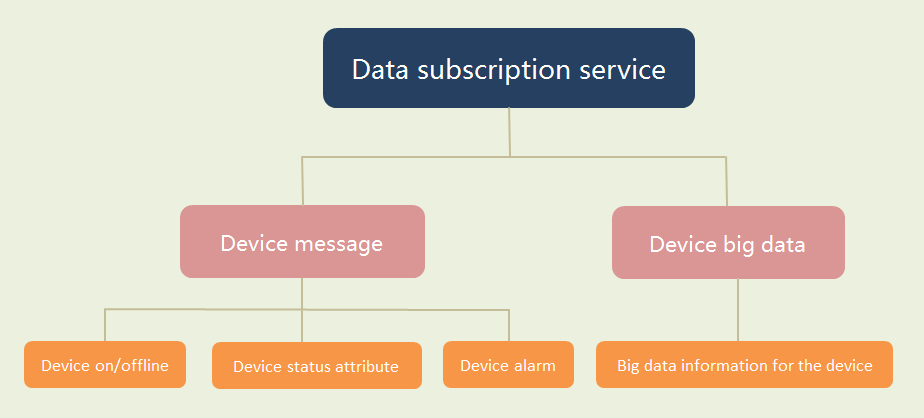
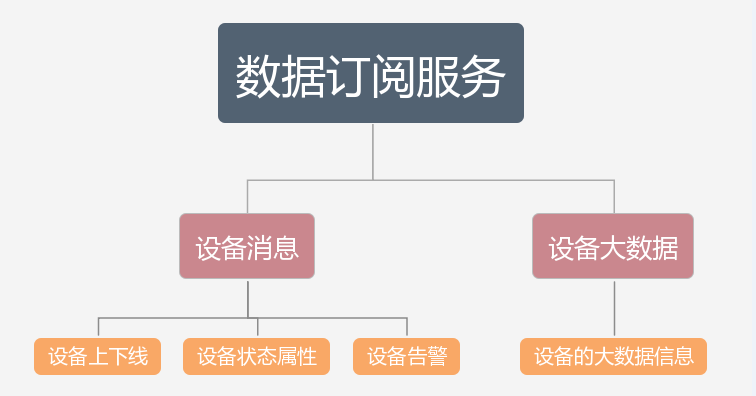
更新
更新

diff --git a/en-zh/DataSubscription.md b/en-zh/DataSubscription.md
@@ -1,38 +1,28 @@
 
->  **current version**：[UWS DataSubscription V1.0.0](en-us/ChangeLog/DataSubscription)  
- **Update time**：{docsify-updated} 
+>  **当前版本**：[UWS 数据订阅 V1.0.0](en-zh/ChangeLog/DataSubscription)  
+ **更新时间**：{docsify-updated}  
 
-### Introduction
->  The Data Subscription Service feature is designed to help developers or applications quickly access real-time incremental data, including device information data, user data, and other custom data that developers subscribe to based on actual needs.  
+## 简介
+>  数据订阅服务功能旨在帮助开发者或应用快速获取实时的增量数据，包括设备信息数据、用户数据以及其他开发者根据实际需求订阅的自定义数据。
 
-The real-time data uploaded by the smart connected device will enter the IOT platform. When the developer or the application needs to refer to the device data for related analysis or operation, the developer can connect to the real-time data reported by the U+IOT platform device through the data subscription.
+智能互联设备上传的实时数据会进入IOT平台，当开发者或应用需要参考设备数据进行相关分析或操作时，开发者可以通过数据订阅连接到U+IOT平台设备上报的实时数据。
 
-![Data subscription image][dataSubscription_type]
+![数据订阅图片][dataSubscription_type]
 
-The third party can subscribe to the Haier device message function through the data push service, and realize the interworking between the Haier device data and the third-party platform. Device messages include the device's online and offline lines, device status attributes, device alarms, and device big data information. Pushing is currently supported based on the typeid of the device.Device data subscriptions include device infrastructure configuration information and real-time information about the device's operational status.  
-1、	Basic device information, including device version, binding information, and model number.
-2、	Operating status, including faults, wifi information, heartbeat, offline reasons, etc.
-
-
-### Application scenarios
-
-Applicable to third-party platforms to obtain device data (up and down lines, device status attributes, device alarms, and device big data information) on the Haier platform to implement certain business logic.  
-
-For third-party partners who use or sell Haier platform equipment, the service supports the Haier U+ cloud platform to push the device's online and offline, attributes, alarms, and big data information functions to third-party partners. Realize the data push function of Haier cloud platform to serve third-party platforms.  
+第三方可以通过数据推送服务，订阅海尔设备消息功能，实现海尔设备数据与第三方平台的互通。设备消息包括设备的上下线，设备状态属性，设备告警，以及设备的大数据信息。目前支持根据设备的typeid进行推送。
+设备数据订阅包括设备基础配置信息以及设备运行状态的实时信息。
+1、	设备基础信息，包括设备版本、绑定信息、型号等；
+2、	运行状态，包括故障、wifi信息、心跳、离线原因等。
 
 
-<!-- 注释开始
-### Way of use
-#### Opening process  
-![Opening process][dataSubscription_liucheng]
-For details of the opening method, please refer to the “Data Push Service Access Manual”.
-注释结束 -->
+## 应用场景
+
+适用于第三方平台要获取在海尔平台上的设备数据（上下线，设备状态属性，设备告警，以及设备的大数据信息）用来实现某些业务逻辑。
+
+面向使用或销售海尔平台设备的第三方合作伙伴，服务支持海尔U+云平台向第三方合作商推送设备的上下线、属性、报警、大数据信息功能。实现海尔云平台向第三方平台服务的数据推送功能。
 
 
 
-[^-^]:文本连接注释
-[dataSubscription_document_url1]:_document/_dataSubscription/DataPushPlatformInterfaceSpecification.docx
-[dataSubscription_document_url2]:_document/_dataSubscription/DataPushAccessManual.docx
 
 [^-^]:常用图片注释
 [dataSubscription_type]:_media/_dataSubscription/dataSubscription_type.png
